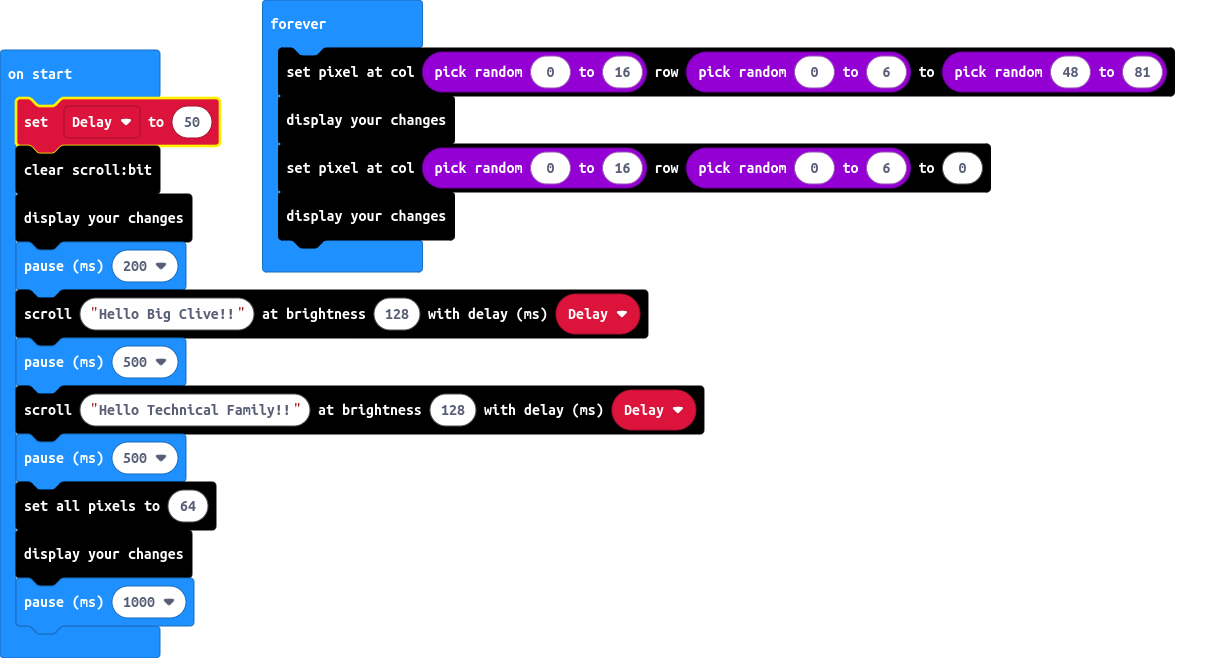
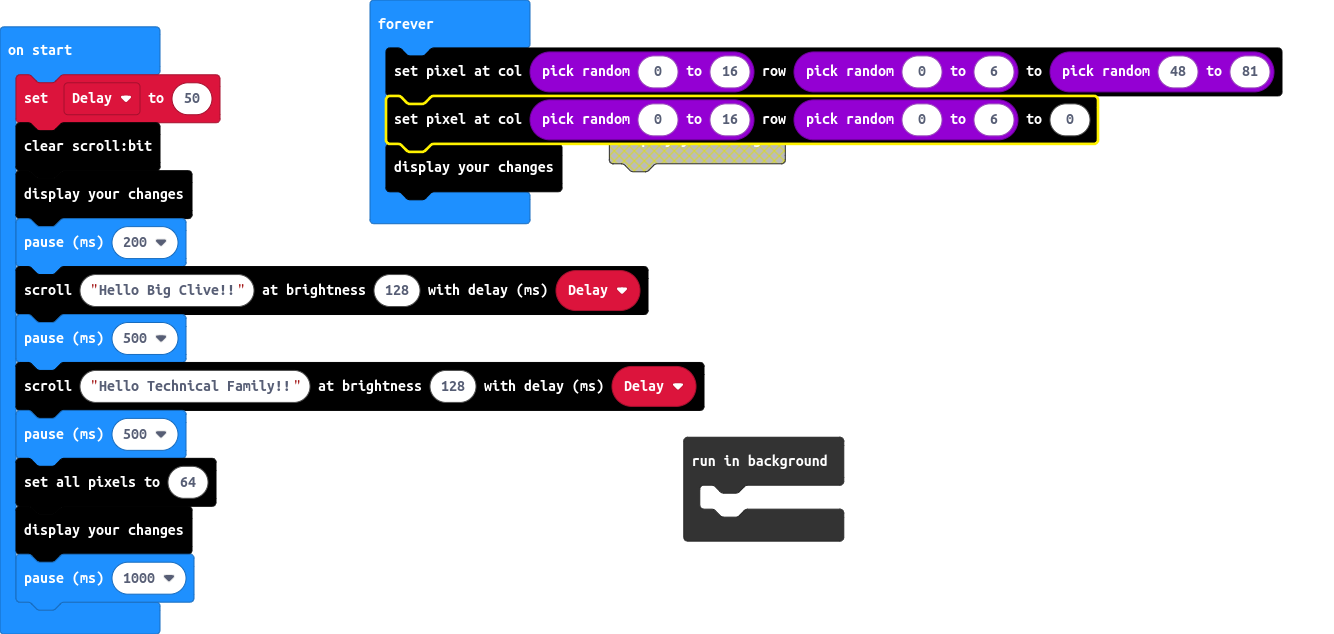
single display call

Changed region(s): [[0.0, 0.0, 0.9608, 1.0]]

diff --git a/main.ts b/main.ts
@@ -11,7 +11,9 @@ scrollbit.show()
 basic.pause(1000)
 basic.forever(function () {
     scrollbit.setPixel(randint(0, 16), randint(0, 6), randint(48, 81))
-    scrollbit.show()
     scrollbit.setPixel(randint(0, 16), randint(0, 6), 0)
     scrollbit.show()
+})
+control.inBackground(function () {
+	
 })

diff --git a/main.py b/main.py
@@ -1,0 +1,18 @@
+Delay = 50
+scrollbit.clear()
+scrollbit.show()
+basic.pause(200)
+scrollbit.scroll_text("Hello Big Clive!!", 128, Delay)
+basic.pause(500)
+scrollbit.scroll_text("Hello Technical Family!!", 128, Delay)
+basic.pause(500)
+scrollbit.set_all(64)
+scrollbit.show()
+basic.pause(1000)
+
+def on_forever():
+    scrollbit.set_pixel(randint(0, 16), randint(0, 6), randint(48, 81))
+    scrollbit.show()
+    scrollbit.set_pixel(randint(0, 16), randint(0, 6), 0)
+    scrollbit.show()
+basic.forever(on_forever)
